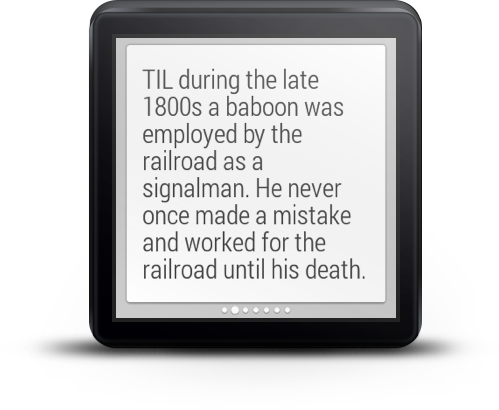
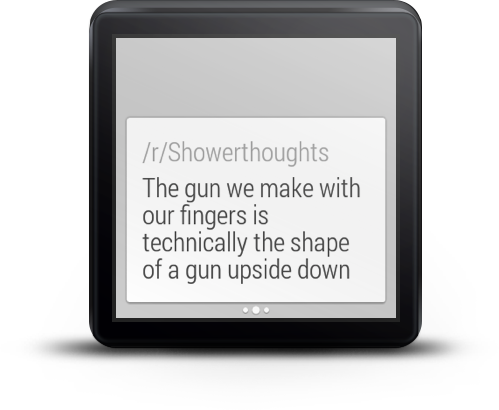
use created_utc of latest retrieved post to keep track of what posts the user has seen rather than before fullname id of reddit post - as listing removes deleted posts, the before id becomes unreliable and causes the listing to return empty forever

Changed region(s): [[0.2405, 0.0878, 0.7816, 0.7024], [0.4509, 0.7317, 0.481, 0.761]]

diff --git a/mobile/src/main/java/com/emmaguy/todayilearned/background/RetrieveService.java b/mobile/src/main/java/com/emmaguy/todayilearned/background/RetrieveService.java
@@ -44,6 +44,8 @@ public class RetrieveService extends WakefulIntentService implements GoogleApiCl
 
     private GoogleApiClient mGoogleApiClient;
 
+    private long mLatestCreatedUtc = 0;
+
     public RetrieveService() {
         super("RetrieveService");
     }
@@ -51,7 +53,7 @@ public class RetrieveService extends WakefulIntentService implements GoogleApiCl
     @Override
     protected void doWakefulWork(Intent intent) {
         connectToWearable();
-        retrieveLatestTILsFromReddit();
+        retrieveLatestPostsFromReddit();
     }
 
     private void connectToWearable() {
@@ -66,48 +68,56 @@ public class RetrieveService extends WakefulIntentService implements GoogleApiCl
         }
     }
 
-    private void retrieveLatestTILsFromReddit() {
-        mRedditEndpoint.latestTILs(getSubreddit(), getSortType(), getNumberToRequest(), getBeforeId())
+    private void retrieveLatestPostsFromReddit() {
+        mRedditEndpoint.latestTILs(getSubreddit(), getSortType(), getNumberToRequest())
                 .subscribeOn(Schedulers.io())
                 .observeOn(AndroidSchedulers.mainThread())
                 .flatMap(new Func1<Listing, Observable<Post>>() {
                     @Override
                     public Observable<Post> call(Listing listing) {
-                        storeNewBeforeId(listing.before);
-
                         return Observable.from(listing.getPosts());
                     }
                 })
                 .subscribe(new Action1<Post>() {
                     @Override
                     public void call(Post post) {
-                        mRedditPosts.add(post.getTitle());
-                        mRedditPostSubreddits.add(post.getSubreddit());
+                        if (postIsNewerThanPreviouslyRetrievedPosts(post)) {
+                            mRedditPosts.add(post.getTitle());
+                            mRedditPostSubreddits.add(post.getSubreddit());
+
+                            if (post.getCreatedUtc() > mLatestCreatedUtc) {
+                                mLatestCreatedUtc = post.getCreatedUtc();
+                            }
+                        }
                     }
                 }, new Action1<Throwable>() {
                     @Override
                     public void call(Throwable throwable) {
-                        Log.e("RedditWearApp", "failed: " + throwable.getLocalizedMessage(), throwable);
+                        Log.e("RedditWearApp", "Failed to retrieve latest posts: " + throwable.getLocalizedMessage(), throwable);
                     }
                 }, new Action0() {
                     @Override
                     public void call() {
-                        sendNewPostsData();
+                        if (mRedditPosts.size() > 0) {
+                            if (mLatestCreatedUtc > 0) {
+                                storeNewCreatedUtc(mLatestCreatedUtc);
+                            }
+
+                            sendNewPostsData();
+                        }
                     }
                 });
     }
 
-    private void storeNewBeforeId(String before) {
-        if (!TextUtils.isEmpty(before)) {
-            getSharedPreferences().edit().putString(SettingsActivity.PREFS_BEFORE_ID, before).apply();
-        }
+    private boolean postIsNewerThanPreviouslyRetrievedPosts(Post post) {
+        return post.getCreatedUtc() > getCreatedUtcOfPosts();
+    }
+
+    private void storeNewCreatedUtc(long createdAtUtc) {
+        getSharedPreferences().edit().putLong(SettingsActivity.PREFS_CREATED_UTC, createdAtUtc).apply();
     }
 
     private void sendNewPostsData() {
-        if (mRedditPosts.size() <= 0) {
-            return;
-        }
-
         if (mGoogleApiClient.isConnected()) {
             PutDataMapRequest mapRequest = PutDataMapRequest.create("/redditwear");
             mapRequest.getDataMap().putLong("timestamp", System.currentTimeMillis()); // debug, ensure it sends, even if content is the same
@@ -136,8 +146,8 @@ public class RetrieveService extends WakefulIntentService implements GoogleApiCl
         return Integer.parseInt(getSharedPreferences().getString(SettingsActivity.PREFS_NUMBER_TO_RETRIEVE, "5"));
     }
 
-    private String getBeforeId() {
-        return getSharedPreferences().getString(SettingsActivity.PREFS_BEFORE_ID, "");
+    private long getCreatedUtcOfPosts() {
+        return getSharedPreferences().getLong(SettingsActivity.PREFS_CREATED_UTC, 0);
     }
 
     private String getSortType() {

diff --git a/mobile/src/main/java/com/emmaguy/todayilearned/SettingsActivity.java b/mobile/src/main/java/com/emmaguy/todayilearned/SettingsActivity.java
@@ -9,7 +9,6 @@ import android.preference.ListPreference;
 import android.preference.Preference;
 import android.preference.PreferenceCategory;
 import android.preference.PreferenceFragment;
-import android.util.Log;
 import android.widget.EditText;
 
 import com.commonsware.cwac.wakeful.WakefulIntentService;
@@ -23,10 +22,10 @@ import de.psdev.licensesdialog.LicensesDialog;
 public class SettingsActivity extends Activity {
 
     public static final String PREFS_REFRESH_FREQUENCY = "sync_frequency";
-    public static final String PREFS_BEFORE_ID = "before_id";
     public static final String PREFS_NUMBER_TO_RETRIEVE = "number_to_retrieve";
     public static final String PREFS_SORT_ORDER = "sort_order";
     public static final String PREFS_SUBREDDITS = "subreddits";
+    public static final String PREFS_CREATED_UTC = "created_utc";
 
     public static final String OPEN_SOURCE = "open_source";
 
@@ -96,12 +95,12 @@ public class SettingsActivity extends Activity {
             if (key.equals(PREFS_REFRESH_FREQUENCY)) {
                 WakefulIntentService.scheduleAlarms(new AppListener(), getActivity().getApplicationContext());
             } else if (key.equals(PREFS_SORT_ORDER) || key.equals(PREFS_SUBREDDITS)) {
-                clearSavedPosition();
+                clearSavedUtcTime();
             }
         }
 
-        private void clearSavedPosition() {
-            getPreferenceManager().getSharedPreferences().edit().putString(SettingsActivity.PREFS_BEFORE_ID, "").apply();
+        private void clearSavedUtcTime() {
+            getPreferenceManager().getSharedPreferences().edit().putLong(SettingsActivity.PREFS_CREATED_UTC, 0).apply();
         }
 
         protected void initSummary() {

diff --git a/mobile/src/main/java/com/emmaguy/todayilearned/background/AppListener.java b/mobile/src/main/java/com/emmaguy/todayilearned/background/AppListener.java
@@ -21,15 +21,15 @@ public class AppListener implements WakefulIntentService.AlarmListener {
         if (!TextUtils.isEmpty(refreshString)) {
             int refreshIntervalMinutes = Integer.parseInt(refreshString);
             if (refreshIntervalMinutes > 0) {
-                mgr.setInexactRepeating(AlarmManager.ELAPSED_REALTIME_WAKEUP, SystemClock.elapsedRealtime() + 60000, TimeUnit.MINUTES.toMillis(refreshIntervalMinutes), pi);
+                mgr.setInexactRepeating(AlarmManager.ELAPSED_REALTIME_WAKEUP, SystemClock.elapsedRealtime() + 1000, TimeUnit.MINUTES.toMillis(refreshIntervalMinutes), pi);
             } else if (refreshIntervalMinutes == -1) {
                 WakefulIntentService.cancelAlarms(context);
             }
         }
     }
 
-    public void sendWakefulWork(Context ctxt) {
-        WakefulIntentService.sendWakefulWork(ctxt, RetrieveService.class);
+    public void sendWakefulWork(Context context) {
+        WakefulIntentService.sendWakefulWork(context, RetrieveService.class);
     }
 
     public long getMaxAge() {

diff --git a/wear/src/main/java/com/emmaguy/todayilearned/NotificationListenerService.java b/wear/src/main/java/com/emmaguy/todayilearned/NotificationListenerService.java
@@ -3,6 +3,7 @@ package com.emmaguy.todayilearned;
 import android.app.Notification;
 import android.app.PendingIntent;
 import android.content.Intent;
+import android.graphics.BitmapFactory;
 import android.support.v4.app.NotificationCompat;
 import android.support.v4.app.NotificationManagerCompat;
 import android.util.Log;
@@ -62,6 +63,7 @@ public class NotificationListenerService extends WearableListenerService {
                         NotificationCompat.BigTextStyle extraPageStyle = new NotificationCompat.BigTextStyle();
                         extraPageStyle.bigText(posts.get(i));
                         extraPageStyle.setBigContentTitle(subredditsForEachPost.get(i));
+
                         Notification extraPageNotification = new NotificationCompat.Builder(this)
                                 .setStyle(extraPageStyle)
                                 .build();

diff --git a/mobile/src/main/java/com/emmaguy/todayilearned/data/Post.java b/mobile/src/main/java/com/emmaguy/todayilearned/data/Post.java
@@ -4,10 +4,12 @@ public class Post {
     private final String mId;
     private final String mTitle;
     private final String mSubreddit;
+    private final long mCreatedUtc;
 
-    public Post(String title, String id, String subreddit) {
+    public Post(String title, String id, String subreddit, long createdUtc) {
         mId = id;
         mTitle = title;
+        mCreatedUtc = createdUtc;
         mSubreddit = String.format("/r/%s", subreddit);
     }
 
@@ -21,5 +23,9 @@ public class Post {
 
     public String getSubreddit() {
         return mSubreddit;
+    }
+
+    public long getCreatedUtc() {
+        return mCreatedUtc;
     }
 }

diff --git a/mobile/src/main/java/com/emmaguy/todayilearned/data/Listing.java b/mobile/src/main/java/com/emmaguy/todayilearned/data/Listing.java
@@ -31,7 +31,7 @@ public class Listing {
                 JsonObject data = e.getAsJsonObject().get("data").getAsJsonObject();
                 boolean stickied = data.get("stickied").getAsBoolean();
                 if (!stickied) {
-                    l.addTIL(new Post(data.get("title").getAsString(), data.get("id").getAsString(), data.get("subreddit").getAsString()));
+                    l.addTIL(new Post(data.get("title").getAsString(), data.get("id").getAsString(), data.get("subreddit").getAsString(), data.get("created_utc").getAsLong()));
                 }
             }
 

diff --git a/mobile/src/main/java/com/emmaguy/todayilearned/data/Reddit.java b/mobile/src/main/java/com/emmaguy/todayilearned/data/Reddit.java
@@ -9,6 +9,5 @@ public interface Reddit {
     @GET("/r/{subreddit}/{sort}.json")
     Observable<Listing> latestTILs(@Path("subreddit") String subreddit,
                                    @Path("sort") String sort,
-                                   @Query("limit") Integer limit,
-                                   @Query("before") String before);
+                                   @Query("limit") Integer limit);
 }
